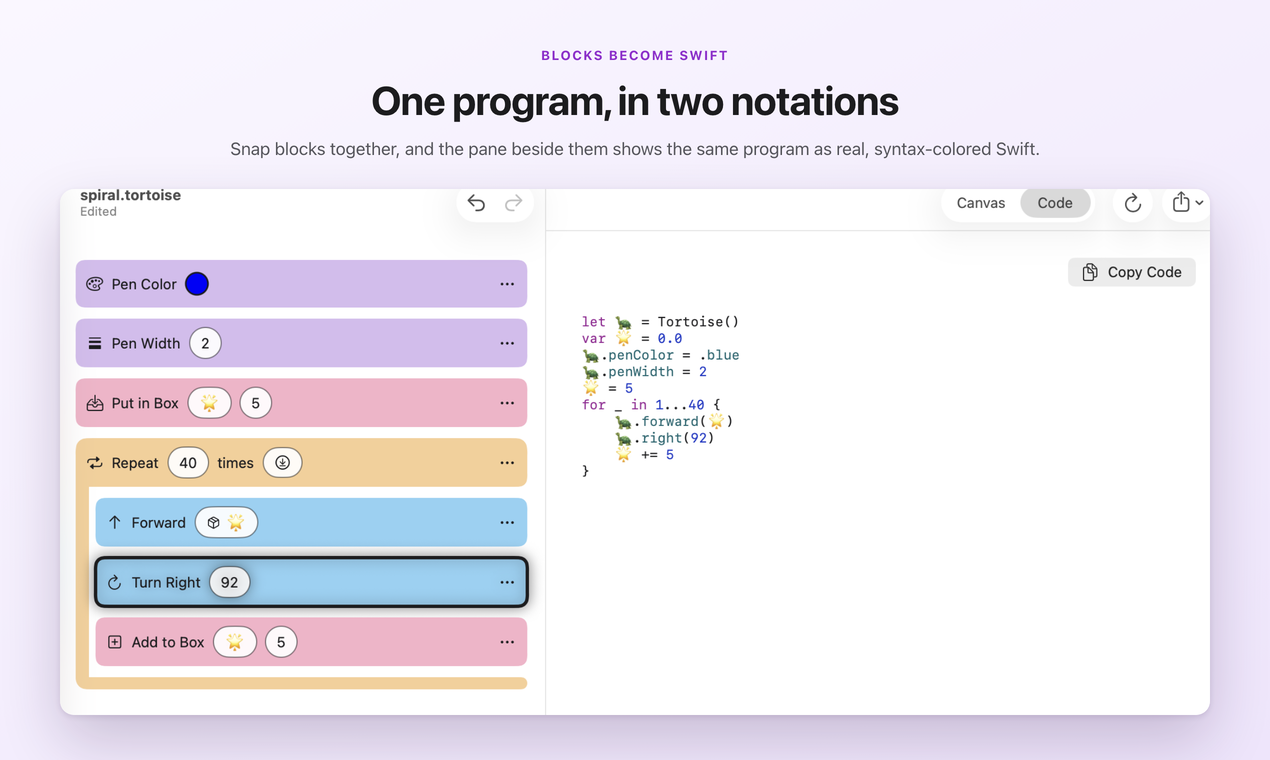
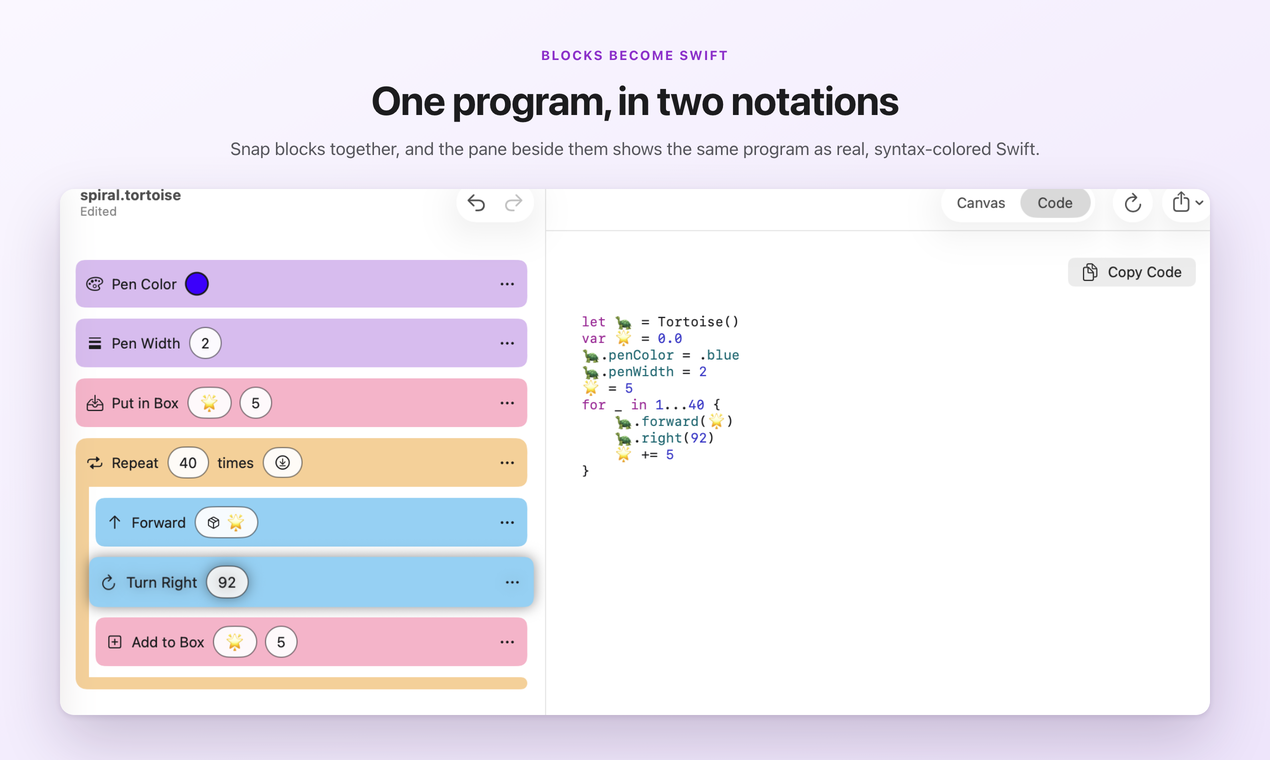
Rebuild the Product Hunt gallery from the 1.2.0 captures
The first three pictures still showed the running block in a black ring,
and two of them the tree and spiral from the August iPad set. build.sh
reads the App Store captures directly, so this is a rerun of it; the text
card and the thumbnail came out byte-identical and are unchanged.

Changed region(s): [[0.0614, 0.7263, 0.4299, 0.8171], [0.1228, 0.3632, 0.1843, 0.3934]]

diff --git a/docs/product-hunt/README.md b/docs/product-hunt/README.md
@@ -149,7 +149,7 @@ evenings otherwise.
 Thumbnail は [thumbnail-240.png](thumbnail-240.png)。動画は
 `https://youtu.be/b2wOul8UPWA` をギャラリー先頭に。
 
-iPad のキャプチャはステータスバーの日付が日本語（`8月20日(木)`）のまま。
+iPad のキャプチャはステータスバーの日付が日本語（`9月13日(日)`）のまま。
 App Store の en-US リストと同じものなので直していない。
 
 ## 当日
